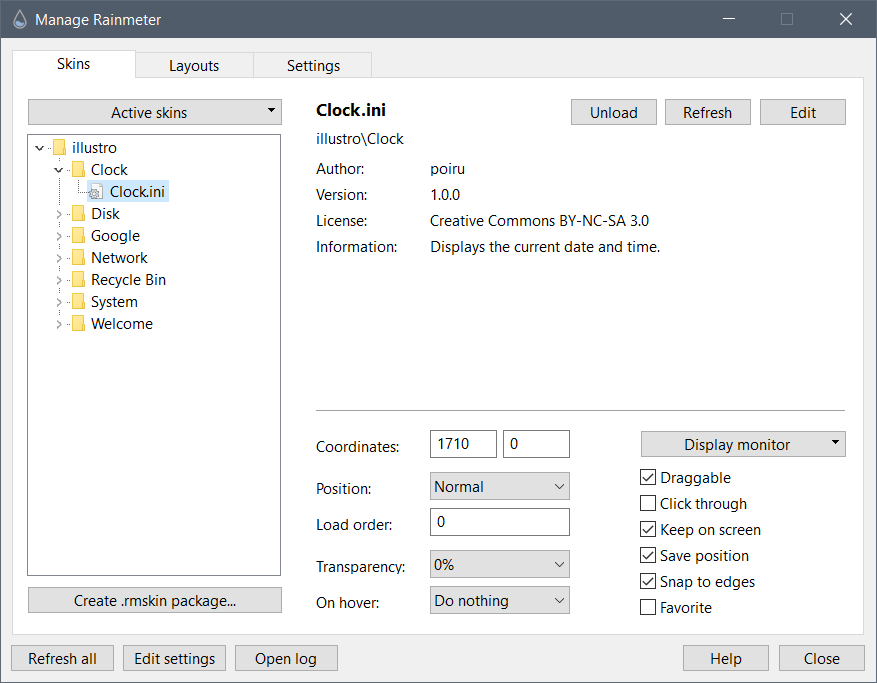
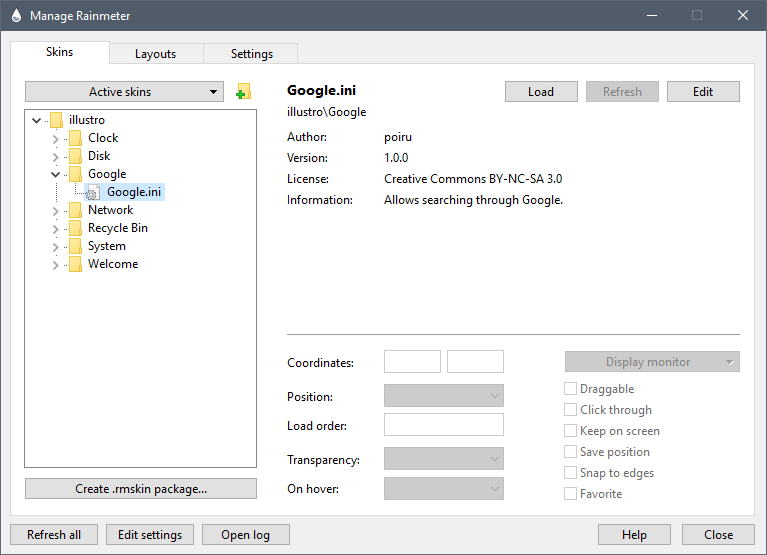
Update

diff --git a/manual-beta/getting-started/creating-skins/index.html b/manual-beta/getting-started/creating-skins/index.html
@@ -201,7 +201,7 @@
 
 <h3 id="ImageEditor">Image Editor</h3>
 
-<p>Depending on the kind of skin you want to make, you may also want to find a good piece of image editing software. Rainmeter can create text by itself, as well as simple shapes, like rectangles and circles, with solid colors or color gradients. But anything more complex will require a separately-created image file.</p>
+<p>Depending on the kind of skin you want to make, you may also want to find a good piece of image editing software. Rainmeter can create text by itself, as well as simple or complex vector shapes, like rectangles and circles. But you will find you often want a separately-created image file.</p>
 
 <p><a href="http://www.adobe.com/products/photoshop.html">Adobe Photoshop</a> is the usual gold standard for image editing, but there are other, less expensive alternatives worth considering, such as <a href="http://www.getpaint.net/">Paint.NET</a>, <a href="http://www.gimp.org/">GIMP</a>, or <a href="http://inkscape.org/">Inkscape</a>.</p>
 
@@ -238,33 +238,20 @@
 
 <h2 id="YourFirstSkin">Your First Skin</h2>
 
-<div class="exampleprev floatright">
-	<img src="/manual-beta/img/getting-started/creating-folderoptions.png" class="lightbox thumbnail">
+<p>Until now, you have been working with the pre-made <em>illustro</em> skins that come with Rainmeter. Now, you're going to create a new skin from scratch.</p>
+
+<p>Creating a new skin is quite easy. In <a href="/manual-beta/user-interface/manage/#SkinsTab">Manage</a>, click the "Create new skin" button. This will create a new config folder in the skins list, offering a default starting name of "NewSkin". Name this folder "MyFirstSkin" and hit enter.</p>
+
+<p>This will do several things. It will create a new <a href="/manual-beta/skins/#Root">root config</a> folder with the name "MyFirstSkin". In it it will create an empty <a href="/manual-beta/skins/resources-folder/">@Resources</a> folder, will create a new basic MyFirstSkin.ini skin file, and will open this new skin in your default or defined text editor, so you are off and running.</p>
+
+<div class="exampleprev">
+	<img src="/manual-beta/img/getting-started/creating-newskin.png">
+	<p style="max-width:800px;">Your new skin is created in the proper folder, and ready to work with in Manage and your text editor.</p>			
 </div>
-
-<p>Until now, you have been working with the pre-made <em>illustro</em> skins that come with Rainmeter. Now, you're going to create a new skin from scratch. You will use this same skin throughout the <a href="/manual-beta/getting-started/basic-tutorials/">tutorials</a> that follow.</p>
-
-<p>Open your Skins folder in Windows Explorer, and create a new folder. Call it <code>MyFirstSkin</code>. Next, you're going to create <code>MyFirstSkin.ini</code>.</p>
-
-	<blockquote>
-		<p><i>Before you continue, there is a setting in Windows Explorer that you may want to change in order to make this process easier.</i></p>
-
-		<p><i>Press <code>Alt</code> to show the menu bar in Explorer, then select <code>Tools</code> &rarr; <code>Folder options</code>. Click the <code>View</code> tab, and uncheck the option labeled <code>Hide extensions for known file types</code>. Press <code>Ok</code> to apply the change.</i></p>
-
-		<p><i>You can now see the "extensions" that signify different file types in Windows Explorer, such as </i>.txt<i> and </i>.ini<i>. This also allows you to change the extension when you rename a file.</i></p>
-	</blockquote>
-
-<div class="exampleprev floatright">
-	<img src="/manual-beta/img/getting-started/creating-rename.png" class="lightbox thumbnail">
-</div>
-
-<p>Open your new "MyFirstSkin" folder. Right-click inside the empty folder, and select <code>New</code> &rarr; <code>Text Document</code>. Windows will create the new file, and allow you to type in a new name. Type <code>MyFirstSkin.ini</code>. Make sure to remove the ".txt" at the end of the file name. Windows will ask you if you're sure about changing the extension; click <code>Yes</code>.</p>
-
-<p>Finally&mdash;open the Rainmeter context menu and click <code>Refresh all</code> to make Rainmeter see the new skin in your library. Then, open the skin in your text editor.</p>
 
 <h3 id="HelloWorld">The "Hello, World!" Skin</h3>
 
-<p>The very first thing you're going to add to your skin is the <a href="/manual-beta/skins/rainmeter-section/">[Rainmeter] section</a>. This is a skin's "header" property, like the <code>&lt;head&gt;</code> tag in an HTML webpage. For now, your [Rainmeter] section will be mostly empty, except for one option:</p>
+<p>The very first thing you will see in your skin is the <a href="/manual-beta/skins/rainmeter-section/">[Rainmeter] section</a>. This is a skin's "header" property, like the <code>&lt;head&gt;</code> tag in an HTML webpage. In the [Rainmeter] section, you will see an <code>Update=1000</code> option. Like this:</p>
 
 <div class="noscroll">
 <figure class="highlight plain"><table><tr><td class="code"><pre><div class="line">[Rainmeter]</div><div class="line">Update=1000</div></pre></td></tr></table></figure>
@@ -273,10 +260,10 @@
 
 <p>The <a href="/manual-beta/skins/rainmeter-section/#Update">Update</a> option is what sets the length of the skin's <a href="/manual-beta/skins/#Update">update cycle</a>. The length is given in milliseconds, or 1/1000ths of a second, so <code>Update=1000</code> means that the skin will update once per second. Updating is how the skin will react to changes in information. You'll see how this works in more detail later on.</p>
 
-<p>Now that you've given your skin a "head," it's time to give it a "body." You're going to create a <a href="/manual-beta/meters/string/">string meter</a>. This is one of the most common types of meters, and it is used to create <b>text</b>.</p>
+<p>Now that you've given your skin a "head," it's time to give it a "body." Let's change that default <a href="/manual-beta/meters/string/">string meter</a>. This is one of the most common types of meters, and it is used to create <b>text</b>.</p>
 
 <div class="noscroll">
-<figure class="highlight plain"><table><tr><td class="code"><pre><div class="line">[Rainmeter]</div><div class="line">Update=1000</div><div class="line"></div><div class="line">[MyMeter]</div><div class="line">Meter=String</div><div class="line">Text=Hello, world!</div></pre></td></tr></table></figure>
+<figure class="highlight plain"><table><tr><td class="code"><pre><div class="line">[Rainmeter]</div><div class="line">Update=1000</div><div class="line"></div><div class="line">[MeterString]</div><div class="line">Meter=String</div><div class="line">Text=Hello, world!</div></pre></td></tr></table></figure>
 
 </div>
 

diff --git a/manual-beta/user-interface/manage/index.html b/manual-beta/user-interface/manage/index.html
@@ -232,6 +232,21 @@
 <div style="clear: both;"></div>
 
 <div class="exampleprev floatright">
+<img src="/manual-beta/img/user-interface/Skins03a.png" class="lightbox">
+</div>
+
+<h3 id="CreateNewSkin">Create new skin</h3>
+<p>The "Create new skin" button will simplify creating a new root-level skin. It will create the folder under Skins, will create an empty @Resources folder, and will create and open the new skin in your default or defined text editor.</p>
+
+<p>When the button is clicked, enter the name of the new config / skin you wish to create, and hit "Enter".
+
+<p>You may edit the <a href="/manual-beta/user-interface/manage/#EditTempate">default template</a> used for creating a new skin.</p>
+
+<p>This is a "shortcut" for creating a single root-level skin. More complicated setups that require several skins under one root config folder will still require using Windows Explorer to create folders and files.</p>
+
+<div style="clear: both;"></div>
+
+<div class="exampleprev floatright">
 <img src="/manual-beta/img/user-interface/Skins03.png" class="lightbox">
 </div>
 
@@ -240,6 +255,7 @@
 <p>Clicking on a skin will make that skin active in the Manage tab.</p>
 
 <div style="clear: both;"></div>
+
 
 <div class="exampleprev floatright">
 <img src="/manual-beta/img/user-interface/Skins04.png" class="lightbox">
@@ -377,6 +393,14 @@
 <li><b>Show log file</b><br>If clicked, the Rainmeter.log file will be loaded in the text editor associated with .log files.</li>
 <li><b>Delete log file</b><br>If clicked, the Rainmeter.log file will be deleted. If <b>Log to file</b> is currently active, it will automatically be turned off.</li>
 </ul>
+
+<h3 id="EditTempate">Edit NewSkin.template file</h3>
+
+<p>When the <a href="#CreateNewSkin">Create new skin</a> button is used to create a new root-level skin, the new skin is initially populated with the contents of a file <b>NewSkin.template</b> which is stored in the <a href="/manual-beta/variables/built-in-variables/#SETTINGSPATH">settings folder</a>. This link will open this template file in your default or defined text editor, so you can adjust what is in a new skin as desired.</p>
+
+<p>The default template is:</p>
+<figure class="highlight plain"><table><tr><td class="code"><pre><div class="line">[Rainmeter]</div><div class="line">Update=1000</div><div class="line">AccurateText=1</div><div class="line"></div><div class="line">[Metadata]</div><div class="line">Name=</div><div class="line">Author=</div><div class="line">Information=</div><div class="line">Version=</div><div class="line">License=Creative Commons Attribution - Non - Commercial - Share Alike 3.0</div><div class="line"></div><div class="line">[Variables]</div><div class="line"></div><div class="line">[MeterString]</div><div class="line">Meter=String</div></pre></td></tr></table></figure>
+
 </article>
 </div>
 

diff --git a/manual-beta/getting-started/basic-tutorials/launcher/index.html b/manual-beta/getting-started/basic-tutorials/launcher/index.html
@@ -179,11 +179,9 @@
 	</header>
 	<article><h2>Creating a new skin</h2>
 
-<p>First, make sure you have gone through the guide on creating a simple "hello world" skin at <a href="/manual-beta/getting-started/creating-skins/">Creating Skins</a> so you understand how to create a .ini skin file in the Skins folder, and how to refresh Rainmeter so it sees your new entry.</p>
+<p>let's create a new folder under Skins, where we will store all of the skins we create in these tutorials. We want to keep them together in one <a href="/manual-beta/skins/#Root">root config</a> folder, so we can later look at how to share some settings and resources between them.</p>
 
-<p>So let's create a new folder under Skins, where we will store all of the skins we create in these tutorials. We want to keep them together in one <a href="/manual-beta/skins/#Root">root config</a> folder, so we can later look at how to share some settings and resources between them.</p>
-
-<p>In Windows Explorer, create a new folder called <b>Tutorials</b>. Under that folder, create another new folder called <b>Launcher</b>. In that <b>Tutorials\Launcher</b> folder, create a new empty text file. In Windows explorer, you can simply right-click in the folder and say "New / Text document". Give it the name <b>Launcher.ini</b> being sure that the <a href="/manual-beta/getting-started/creating-skins/#YourFirstSkin">extension</a> is <b>.ini</b> and not <b>.ini.txt</b>.</p>
+<p>In Windows Explorer, create a new folder called <b>Tutorials</b>. Under that folder, create another new folder called <b>Launcher</b>. In that <b>Tutorials\Launcher</b> folder, create a new empty text file. In Windows explorer, you can simply right-click in the folder and say "New / Text document". Give it the name <b>Launcher.ini</b>.</p>
 
 <p>Now, left-click the Rainmeter icon in the Windows notification area on your taskbar, to open the <a href="/manual-beta/user-interface/manage/#SkinsTab">Manage</a> dialog. Click on the <b>Refresh all</b> button on the bottom left, and you should see your new <b>Tutorials / Launcher</b> config in the list. Find <b>Launcher.ini</b> in the list, right-click it and say "Edit". This will open the new skin file in your default text editor. Don't load the skin just yet, we need to add some code first...</p>
 

diff --git a/manual-beta/getting-started/basic-tutorials/clock/index.html b/manual-beta/getting-started/basic-tutorials/clock/index.html
@@ -179,11 +179,9 @@
 	</header>
 	<article><h2>Creating your second tutorial skin</h2>
 
-<p>First, make sure you have gone through the guide on creating a simple "hello world" skin at <a href="/manual-beta/getting-started/creating-skins/">Creating Skins</a> so you understand how to create a .ini skin file in the Skins folder, and how to refresh Rainmeter so it sees your new entry.</p>
-
 <p>In the previous tutorial, you should have already created a folder under Skins called <b>Tutorials</b>. We are going to add a new folder under that one to create our new skin. Under <b>Skins\Tutorials\</b> create a new folder called <b>Clock</b>.
 
-<p>In that <b>Tutorials\Clock</b> folder, create a new empty text file. In Windows explorer, you can simply right-click in the folder and say "New / Text document". Give it the name <b>Clock.ini</b> being sure that the <a href="/manual-beta/getting-started/creating-skins/#YourFirstSkin">extension</a> is <b>.ini</b> and not <b>.ini.txt</b>.</p>
+<p>In that <b>Tutorials\Clock</b> folder, create a new empty text file. In Windows explorer, you can simply right-click in the folder and say "New / Text document". Give it the name <b>Clock.ini</b>.</p>
 
 <p>Now, left-click the Rainmeter icon in the Windows notification area on your taskbar, to open the <a href="/manual-beta/user-interface/manage/#SkinsTab">Manage</a> dialog. Click on the <b>Refresh all</b> button on the bottom left, and you should see your new <b>Tutorials / Clock</b> config in the list. Find <b>Clock.ini</b> in the list, right-click it and say "Edit". This will open the new skin file in your default text editor. Don't load the skin just yet, we need to add some code first...</p>
 

diff --git a/manual-beta/settings/index.html b/manual-beta/settings/index.html
@@ -222,6 +222,10 @@
 
 <p>This file records Windows' network usage statistics over time. These statistics are used by the <a href="/manual-beta/measures/net/">Net measures</a> to display "cumulative" network usage data. The contents of Rainmeter.stats may be cleared using the <a href="/manual-beta/bangs/#ResetStats">!ResetStats bang</a>.</p>
 
+<h3 id="NewSkinTempate">NewSkin.template</h3>
+
+<p>This file contains a template for a new skin used by the <a href="/manual-beta/user-interface/manage/#CreateNewSkin">Create new skin</a> button in Manage. This can be <a href="/manual-beta/user-interface/manage/#EditTempate">edited</a> as desired.</p>
+
 <h3 id="Layouts">Layouts</h3>
 
 <p>A <b>layout</b> (formerly <b>theme</b>) is a saved "session" or "state". The user can create a layout using the <a href="/manual-beta/user-interface/manage/#LayoutsTab">Manager</a>, which copies the settings in <a href="#RainmeterIni">Rainmeter.ini</a> to the layout file. These settings can later be restored using the Manager or the <a href="/manual-beta/bangs/#LoadLayout">!LoadLayout bang</a>. Layouts may also be <a href="/manual-beta/installing-skins/">installed with 3rd-party skins</a>.</p>

diff --git a/history/index.html b/history/index.html
@@ -92,6 +92,13 @@
 
 <h2 id="4.0">Rainmeter 4.0</h2>
 
+<p><b>November 27, 2016 - Revision 2720</b></p>
+<ul>
+<li><b>Added</b> InputText plugin: Added InputLimit (default 0) option to limit the number of characters input.</li>
+<li><b>Added</b> InputText plugin: Added InputNumber (default 0) option to force numeric-only input.</li>
+<li><b>Added</b> Manage: Add a <a href="http://docs.rainmeter.net/manual-beta/user-interface/manage/#CreateNewSkin">Create new skin</a> button to the top of the skins list. This will create a new root-level config / skin using a skin template you can edit. The new skin will be selected in Manage and opened in your text editor.</li>
+<li><b>Fixed</b> Shape meter: Corrected an issue where using TransformationMatrix on a Shape meter would cause incorrect mouse detection.</li>
+
 <p><b>November 20, 2016 - Revision 2708</b></p>
 <ul>
 <li><b>Added</b> Shape meter: Added new Path shape to the Shape Meter.See the documentation at: <a href="https://docs.rainmeter.net/manual-beta/meters/shape/">Shape Meter</a>.</li>
